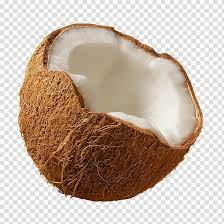
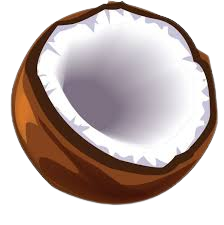
fixed bugs

diff --git a/clicker.js b/clicker.js
@@ -4,6 +4,7 @@ var cocospersec = document.getElementById('cocospersec')
 const multibtn = document.getElementById('multitest');
 const ccc = document.getElementById('cocochopper');
 const cococutterpb = document.getElementById('cococutter');
+const inpcontainer = document.getElementById('container-left');
 
 let cc = 0;
 let multi = 1;
@@ -44,23 +45,30 @@ function pageload() {
   ccc.textContent = 'cocochopper ' + cccp;
 
   cococutterpstr = localStorage.getItem("cococutterpstr")
+
   if(isNaN(cococutterpstr) || !cococutterpstr) {
     cococutterp = 550
+    cococutterpb.textContent = 'cococutter ' + cococutterp;
 
 
   }
   else {  
 
     cococutterp = parseInt(cococutterpstr)
+    cococutterpb.textContent = 'cococutter ' + cococutterp;
+
 
   } 
 }
 
 coconut.addEventListener('click', () => {
+  var audio = document.getElementById("audio");
+  audio.play();
 
   cc=cc+cps*multi;
   coconum.innerHTML = cc + ' coconuts';
   coconut.classList.add('clicked');
+  
 
   
 
@@ -68,16 +76,8 @@ coconut.addEventListener('click', () => {
     coconut.classList.remove('clicked');
   }, 76); 
 
-  var ccstr = cc.toString();
-  localStorage.setItem("ccstr", ccstr);
-  var multistr = multi.toString();
-  localStorage.setItem("multistr", multistr);
-  var mpstr = mp.toString();
-  localStorage.setItem("mpstr", mpstr);
-  var cocospsstr = cocosps.toString();
-  localStorage.setItem("cocospsstr", cocospsstr)
-  var cccpstr = cccp.toString();
-  localStorage.setItem("cccpstr", cccpstr)
+  saveall()
+
   
 });
 
@@ -90,19 +90,11 @@ function testmulti() {
     else {
       multi = multi + 2  
     }
-    mp = Math.round(mp + (2/mp)*100)
+    mp = Math.round(mp*1.15)
     multibtn.textContent = 'multitest ' + mp;
   }
-  var ccstr = cc.toString();
-  localStorage.setItem("ccstr", ccstr);
-  var multistr = multi.toString();
-  localStorage.setItem("multistr", multistr);
-  var mpstr = mp.toString();
-  localStorage.setItem("mpstr", mpstr);
-  var cocospsstr = cocosps.toString();
-  localStorage.setItem("cocospsstr", cocospsstr)
-  var cccpstr = cccp.toString();
-  localStorage.setItem("cccpstr", cccpstr)
+  saveall()
+
   
 
 }
@@ -117,21 +109,12 @@ function cocochopper() {
   if(cc >= cccp) {
     cocosps++
     cc = cc - cccp
-    cccp = Math.round(cccp + (15/cccp)*100)
+    cccp = Math.round(cccp*1.15)
     ccc.textContent = 'cocochopper ' + cccp;
   }
   cocospersec.innerHTML = cocosps + ' coconuts/ps';
-  
-  var ccstr = cc.toString();
-  localStorage.setItem("ccstr", ccstr);
-  var multistr = multi.toString();
-  localStorage.setItem("multistr", multistr);
-  var mpstr = mp.toString();
-  localStorage.setItem("mpstr", mpstr);
-  var cocospsstr = cocosps.toString();
-  localStorage.setItem("cocospsstr", cocospsstr)
-  var cccpstr = cccp.toString();
-  localStorage.setItem("cccpstr", cccpstr)
+  saveall()
+
 
 }
 
@@ -139,7 +122,7 @@ function cococutter() {
   if(cc >= cococutterp) {
     cocosps = cocosps + 50
     cc = cc - cococutterp
-    cococutterp = Math.round(cococutterp + (15/cococutterp)*100)
+    cococutterp = Math.round(cococutterp*1.15)
     cococutterpb.textContent = 'cococutter ' + cococutterp;
   }
   else {
@@ -149,7 +132,12 @@ function cococutter() {
   }
 
   cocospersec.innerHTML = cocosps + ' coconuts/ps';
+  saveall()
 
+
+}
+
+function saveall() {
   var ccstr = cc.toString();
   localStorage.setItem("ccstr", ccstr);
   var multistr = multi.toString();
@@ -161,6 +149,6 @@ function cococutter() {
   var cccpstr = cccp.toString();
   localStorage.setItem("cccpstr", cccpstr)
   var cococutterpstr = cococutterp.toString();
-  localStorage.setItem("cocutterpstr", cococutterpstr)
-
+  localStorage.setItem("cococutterpstr", cococutterpstr)
 }
+

diff --git a/index.html b/index.html
@@ -13,10 +13,11 @@
         <div id="container-left">
             <div id="cococount"></div>
             <div id="cocospersec"></div>
-            <div id="coconut"></div>
+            <div id="coconut"><audio id="audio" src="pop1.mp3"></audio></div>
+            <button id="devmode" type="button" onclick="devmode()">DevMode</button>
         </div>
         <div id="container-center">
-            
+
 
         </div>
         <div id="container-right">

diff --git a/style.css b/style.css
@@ -38,7 +38,7 @@
 }
 
 #coconut {
-    background-image: url('images.png');
+    background-image: url('coconut.png');
     width: 200px;
     height: 200px;
     position:relative; 
